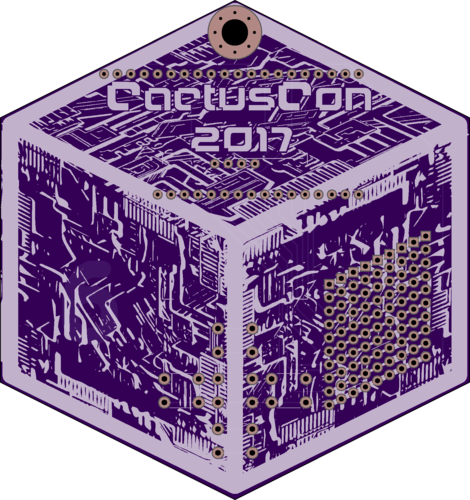
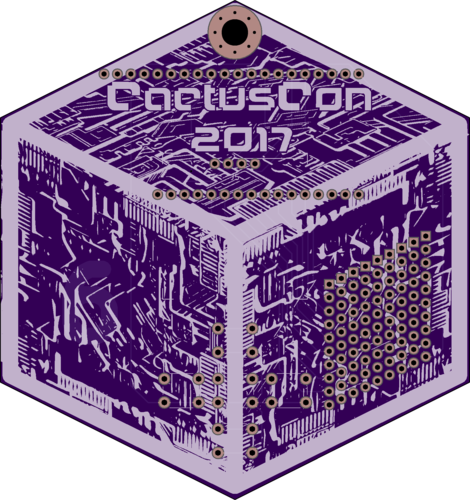
Enlarge module holes, note IO side, update renders

diff --git a/README.md b/README.md
@@ -1,3 +1,4 @@
 # CactusCon Badge 2017
 
 ![Render of badge front](cactus_front.png)
+![Render of badge back](cactus_back.png)
